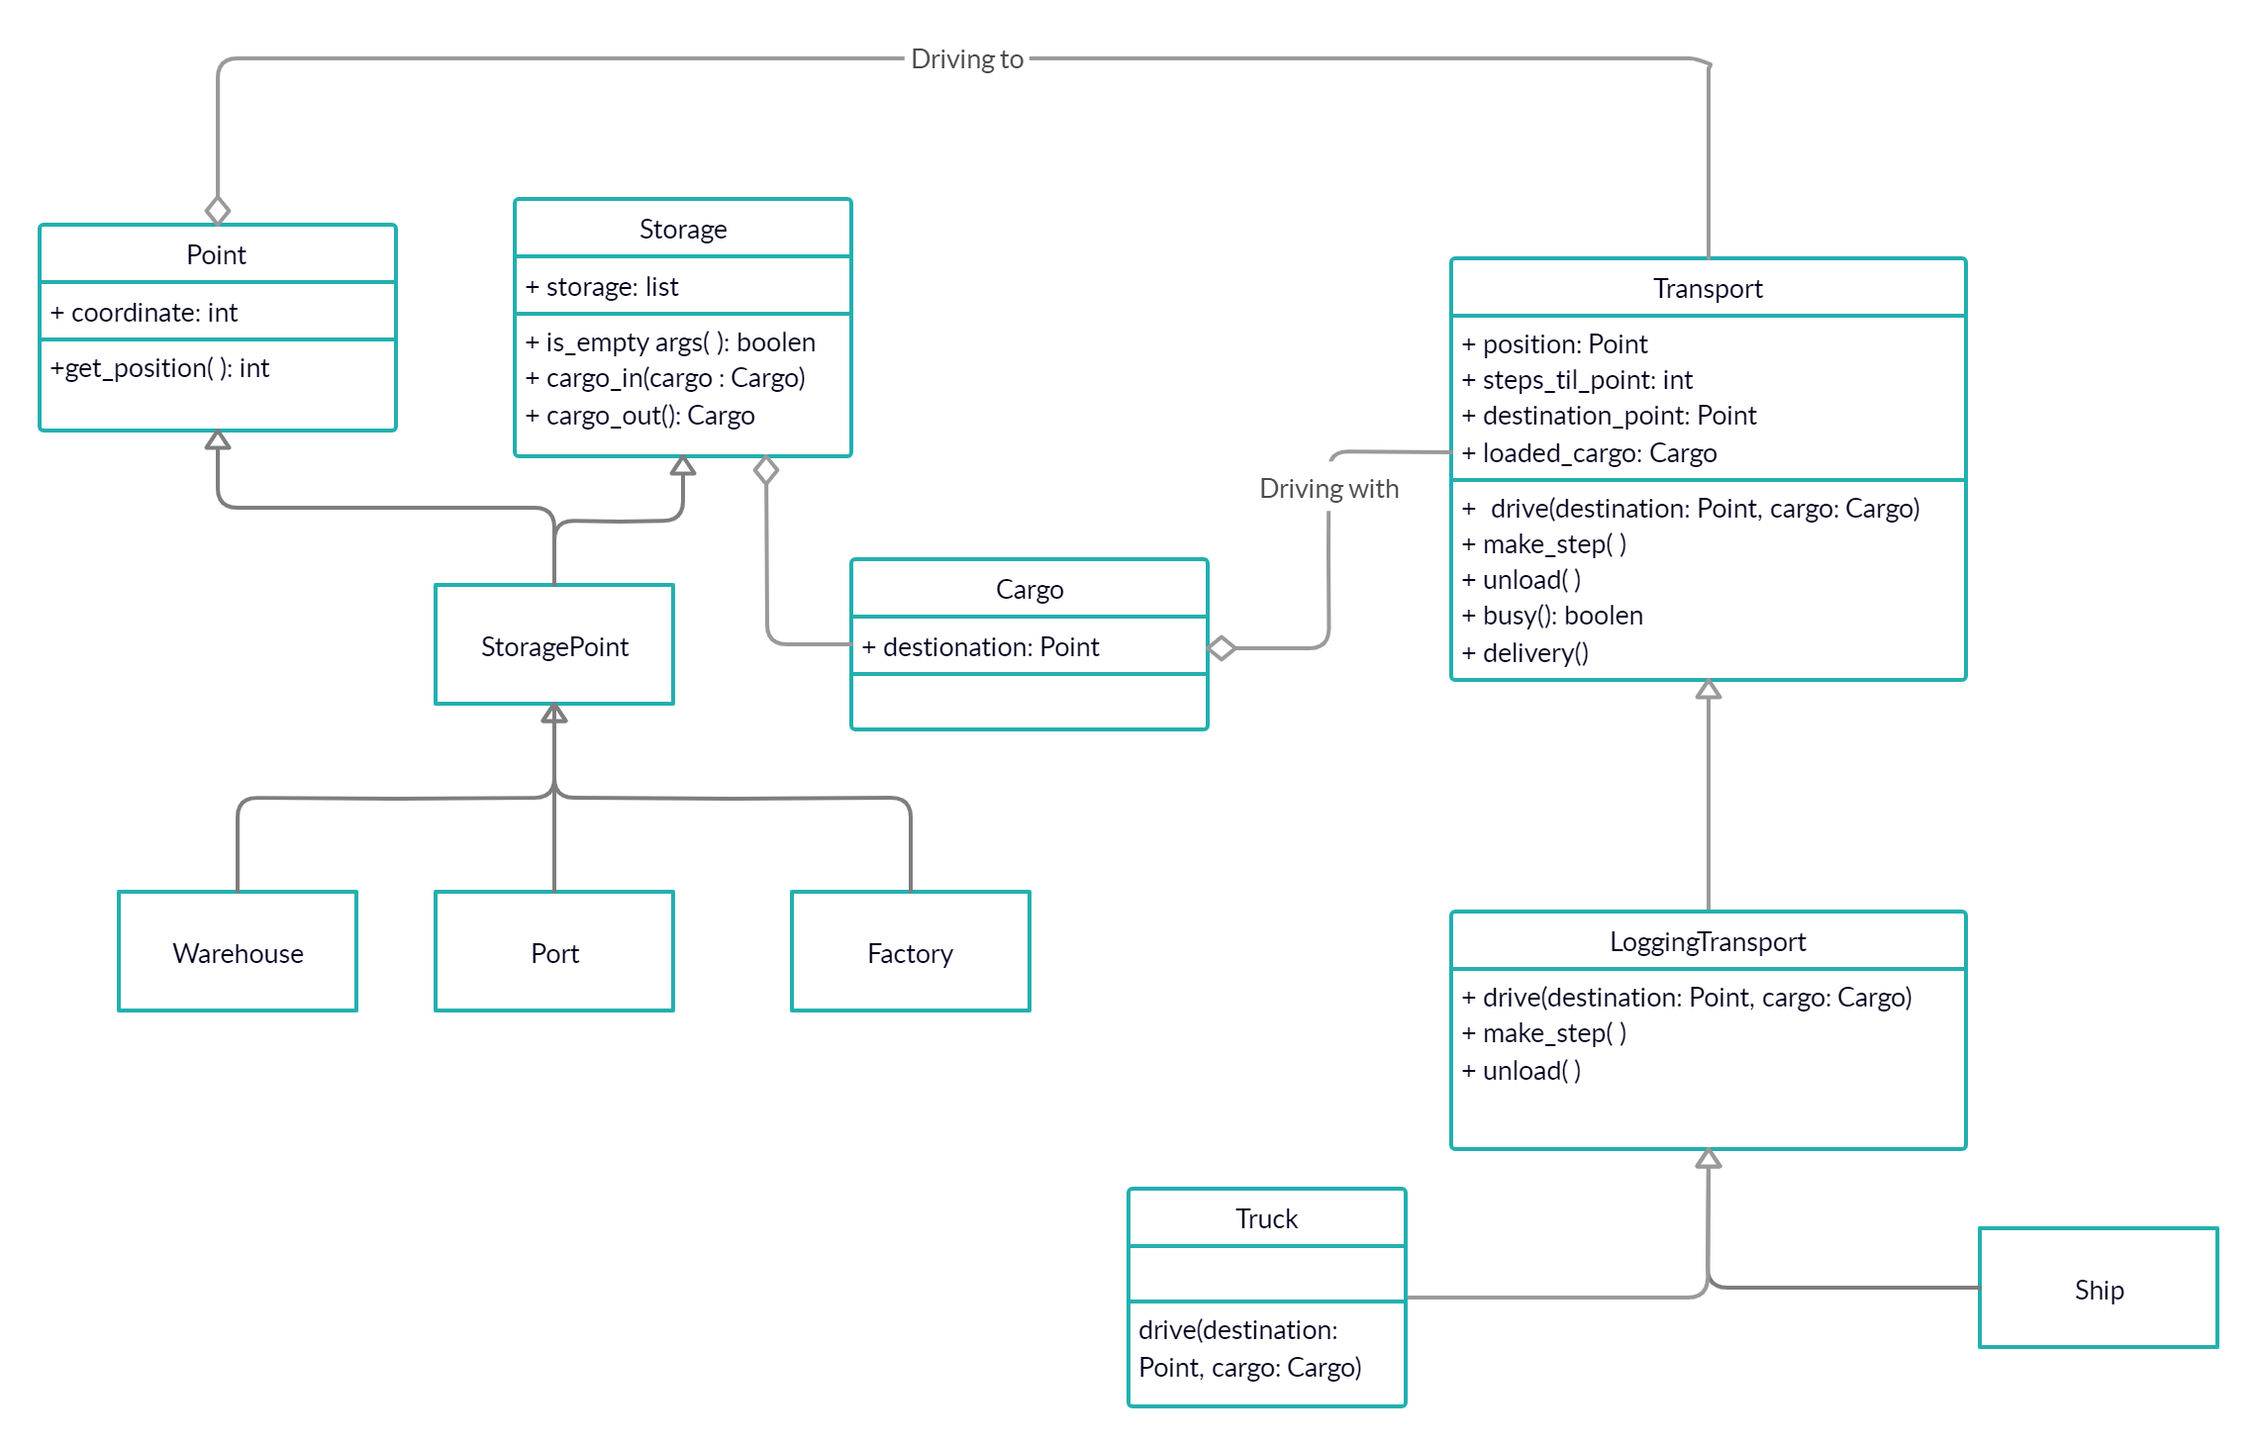
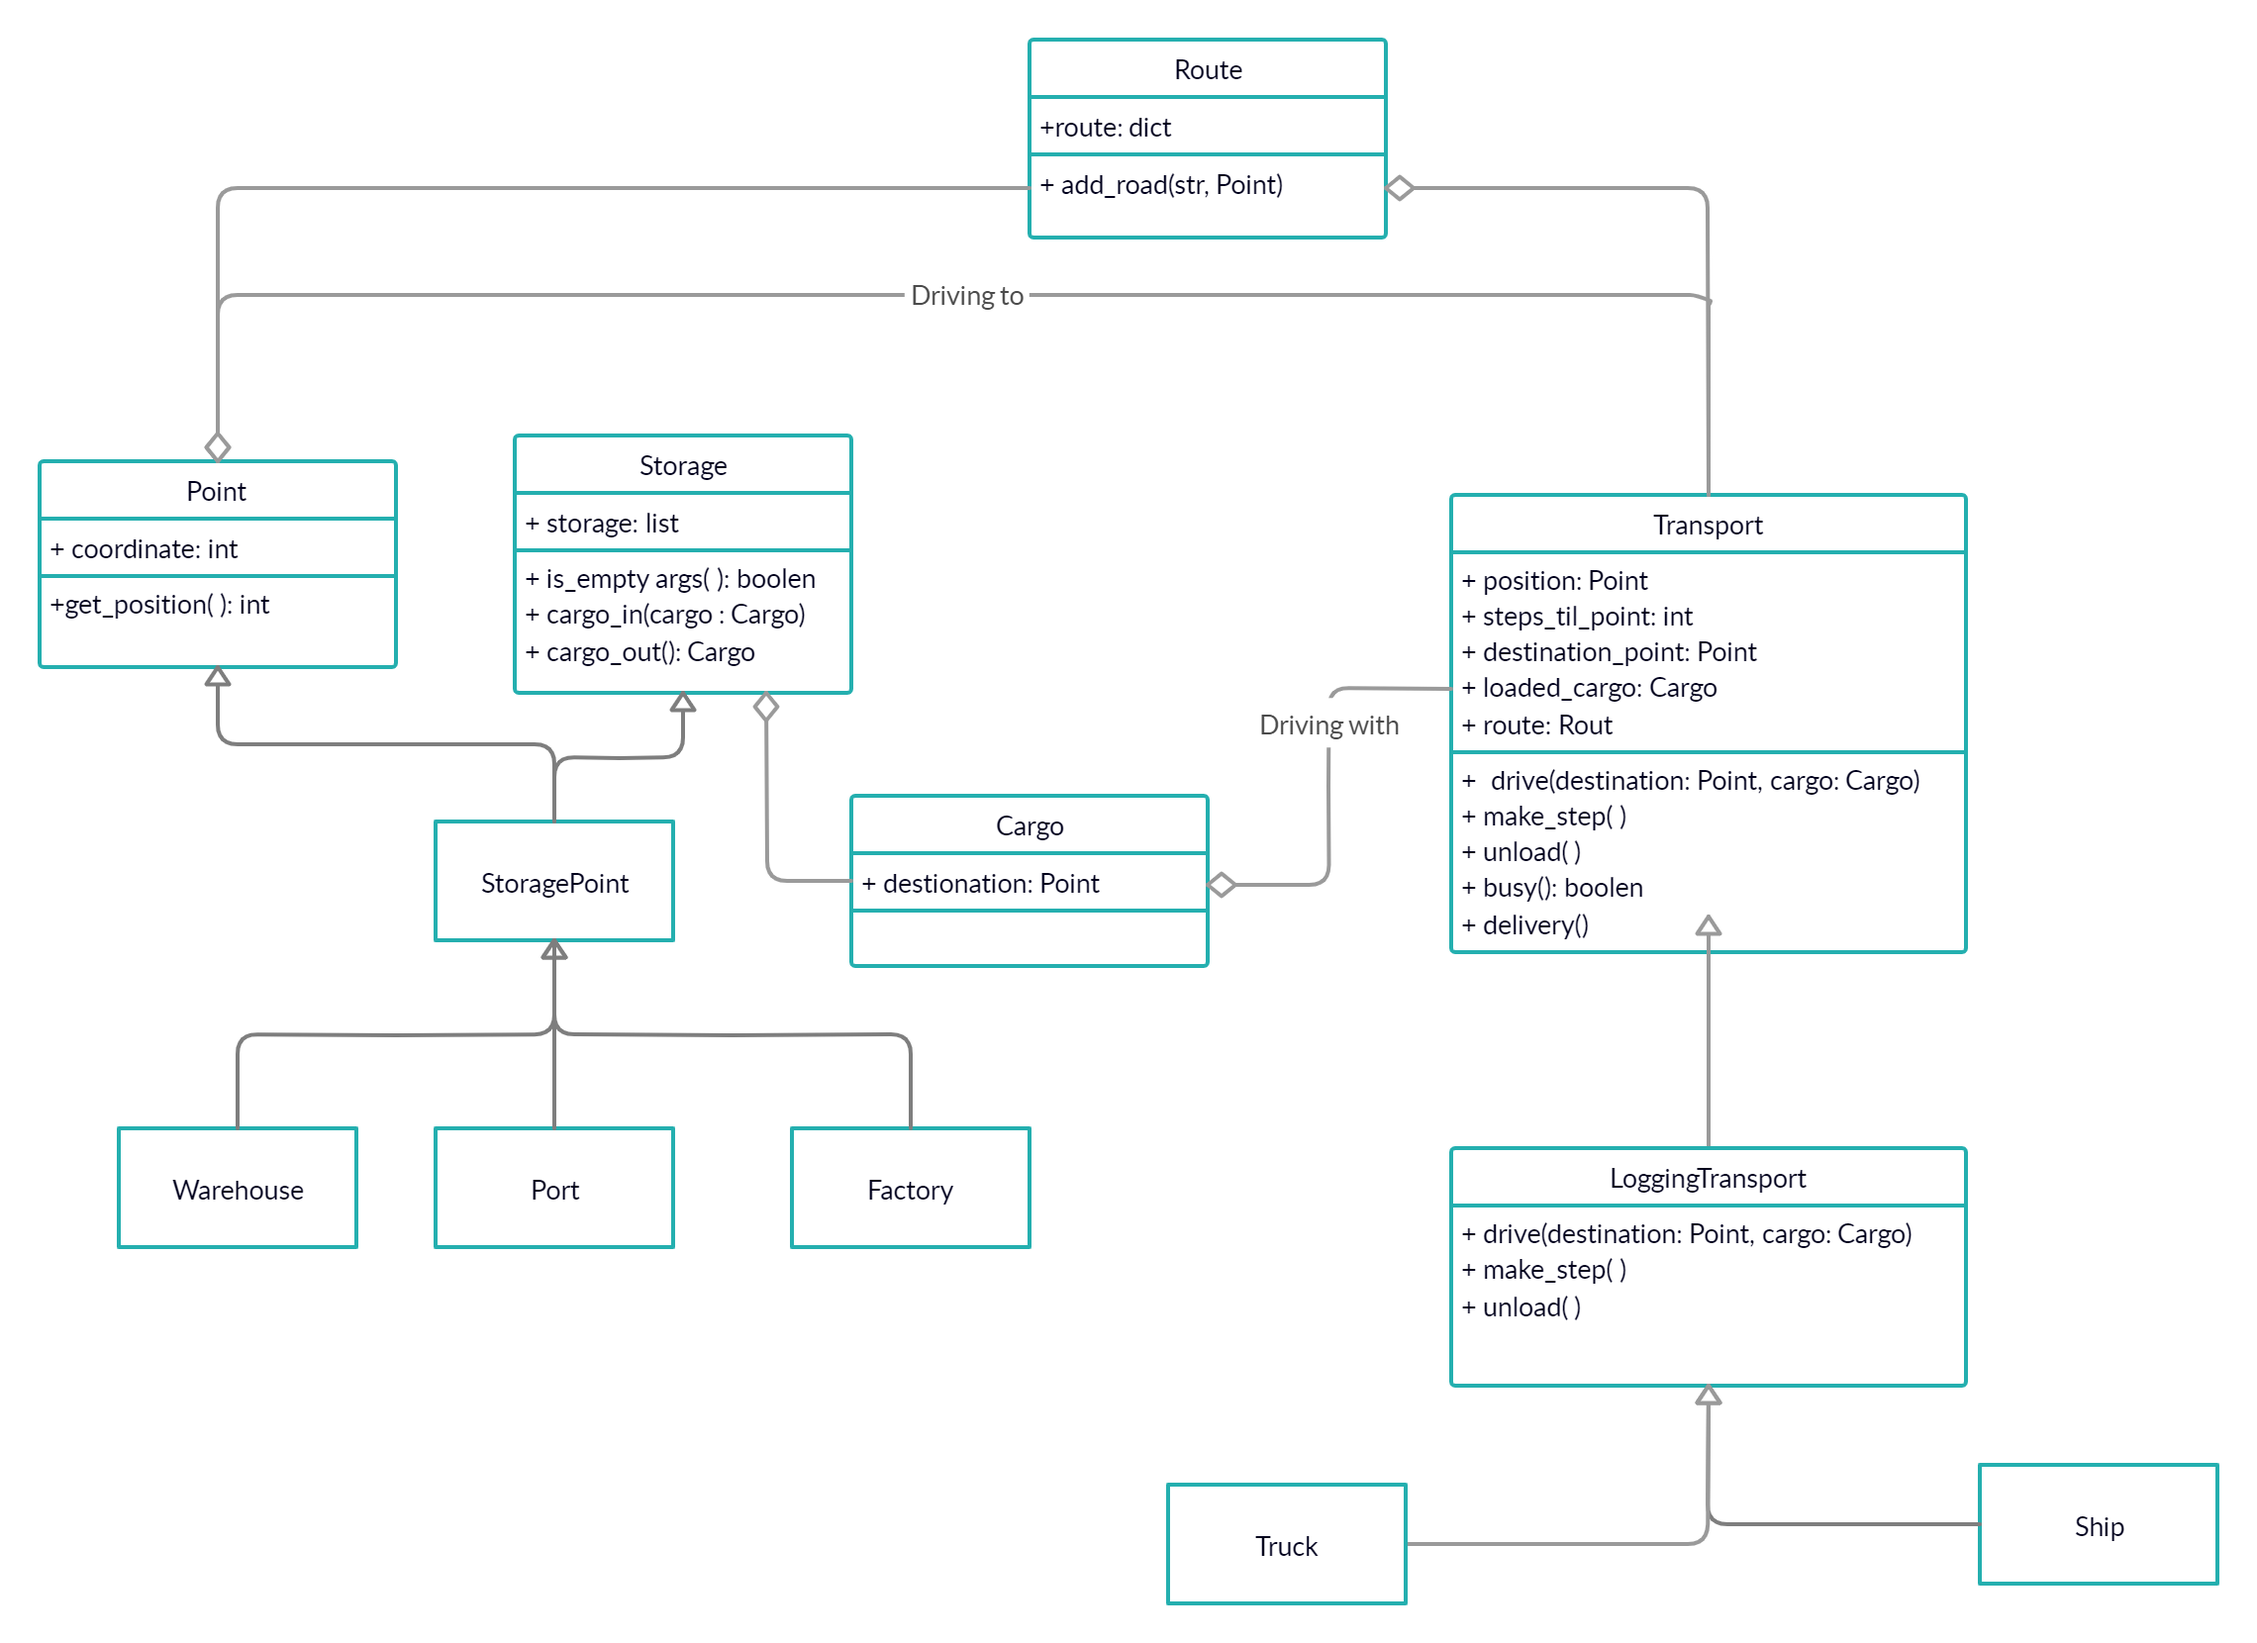
new class Route

diff --git a/11-Object_oriented_design/logistic.py b/11-Object_oriented_design/logistic.py
@@ -85,6 +85,17 @@ class Cargo:
         self.destination = destination
 
 
+class Route:
+    """Transport routes"""
+
+    def __init__(self, road_to_a: Point, road_to_b: Point = None):
+        self.route = {'A': road_to_a, 'B': road_to_b}
+
+    def __add_new_road(self, name: str, point: Point):
+        """Adds new road to routes"""
+        self.route[name] = point
+
+
 class Transport:
     """Transport carrying goods.
 
@@ -97,9 +108,10 @@ class Transport:
         local_storage:  Storage point where transport  pick ups cargoes
     """
 
-    def __init__(self, start_position: StoragePoint, global_main_storage: StoragePoint = None):
+    def __init__(self, start_position: StoragePoint, route: Route, global_main_storage: StoragePoint = None, ):
         if global_main_storage is None:
             global_main_storage = start_position
+        self.route = route
         self.global_main_storage = global_main_storage
         self.local_storage = start_position
 
@@ -155,7 +167,7 @@ class Transport:
         if self.local_storage.is_empty():
             return
         cargo = self.local_storage.cargo_out()
-        point = cargo.destination
+        point = self.route.route[cargo.destination.name]
         self.drive(point, cargo)
 
 
@@ -196,16 +208,9 @@ class LoggingTransport(Transport):
 class Truck(LoggingTransport):
     """Ground transportation."""
 
-    def drive(self, destination: Point, cargo: Cargo = None):
-        """Truck can't go throw water"""
-        if destination is warehouse_a:
-            destination = port
-        super().drive(destination, cargo)
-
 
 class Ship(LoggingTransport):
     """Water transportation."""
-    pass
 
 
 def get_destination_point(destination: str) -> Point:
@@ -217,10 +222,11 @@ if __name__ == '__main__':
     warehouse_a, warehouse_b = Warehouse('A', 5), Warehouse('B', 5)
 
     factory, port = Factory(0, map(Cargo, map(get_destination_point, input()))), Port(1, [])
+    track_route = Route(port, warehouse_b)
+    ship_route = Route(warehouse_a)
+    truck_1, truck_2 = Truck(1, factory, track_route), Truck(2, factory, track_route)
 
-    truck_1, truck_2 = Truck(1, factory), Truck(2, factory)
-
-    ship1 = Ship(1, port, factory)
+    ship1 = Ship(1, port, ship_route, factory)
 
     count_steps = 0
     while any((truck_1.busy(), truck_2.busy(), ship1.busy(), not factory.is_empty(), not port.is_empty())):
